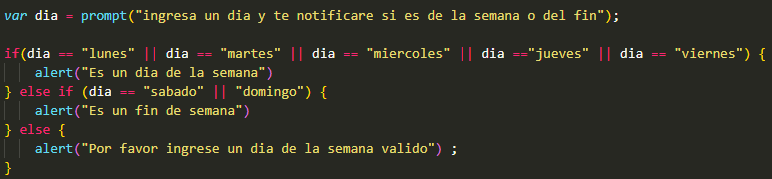
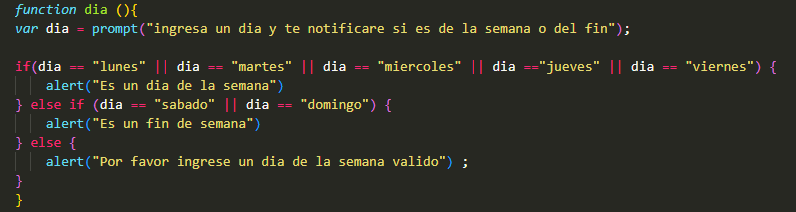
lista

Changed region(s): [[0.0, 0.2514, 0.9948, 0.9777], [0.0, 0.0, 0.8083, 0.1676]]

diff --git a/ejercicio/index.html b/ejercicio/index.html
@@ -23,25 +23,25 @@
         <section class="container">
             <div class="tarjetas">
                 <img src="./recursos/edad.png" alt="Ejercicio 1">
-                <button type="button">Ejercio Nº1</button>
+                <button type="button" onclick="edad()">Ejercio Nº1</button>
             </div>
             <div class="tarjetas">
                 <img src="./recursos/dia de semana.png" alt="Ejercicio 2">
-                <button type="button">Ejercio Nº2</button>
+                <button type="button" onclick="dia()">Ejercio Nº2</button>
             </div class="tarjetas">
             <div class="tarjetas">
-                <img src="./recursos/par-inpar.png" alt="Ejercicio 3">
-                <button type="button">Ejercio Nº3</button>
+                <img src="./recursos/par-impar.png" alt="Ejercicio 3">
+                <button type="button" onclick="parImpar()">Ejercio Nº3</button>
             </div>
             <div class="tarjetas">
                 <img src="./recursos/nombre-edad.png" alt="Ejercicio 4">
-                <button type="button">Ejercio Nº4</button>
+                <button type="button" onclick="nombre()">Ejercio Nº4</button>
             </div>
         </section>
     </main>
-    <footer>
+    <footer id="location">
         Todos los Derechos Reservados de JDK &COPY; Family
     </footer>
 </body>
-<script src="./ejercicio.j"></script>
+<script src="./ejercicio.js"></script>
 </html>

diff --git a/ejercicio/ejercicio.js b/ejercicio/ejercicio.js
@@ -1,3 +1,4 @@
+function edad (){
 var edad = prompt("Por favor escribe tu edad");
 
 if (edad >= 0 && edad <= 5) {
@@ -15,27 +16,30 @@ if (edad >= 0 && edad <= 5) {
 } else {
   alert("La edad no es valida (Eres una imposibilidad en este mundo)");
 }
+}
 
-
+function dia (){
 var dia = prompt("ingresa un dia y te notificare si es de la semana o del fin");
 
 if(dia == "lunes" || dia == "martes" || dia == "miercoles" || dia =="jueves" || dia == "viernes") {
     alert("Es un dia de la semana")
-} else if (dia == "sabado" || "domingo") {
+} else if (dia == "sabado" || dia == "domingo") {
     alert("Es un fin de semana") 
 } else {
     alert("Por favor ingrese un dia de la semana valido") ;
 }
-
-
+}
+function parImpar (){
 var numero = prompt(" Buenas por favor ingrese un numero");
 
 if (numero>0 && (numero % 2 > 0)) {
-    alert(`Hola, el numero ${numero} es inpar`);
+    alert(`Hola, el numero ${numero} es impar`);
 } else {
     alert(`Hola, el numero ${numero} es par`);
 }
+}
 
+function nombre (){
 var nombre = prompt("ingresa tu nombre");
 var edad = prompt(`Muy bien ${nombre} por favor ingresa tu edad`);
 
@@ -44,3 +48,4 @@ if (nombre == "juan" && edad == 20){
     } else {
     alert (`Esto es vergonzoso ${nombre} pero lamentablemente no puedes ingresar`)
     }
+  }   

diff --git a/ejercicio/style.css b/ejercicio/style.css
@@ -9,9 +9,8 @@
     width: 90%;
     height: 200px;
   }
-  footer {
-    display: flex;
-    justify-content: center;
+  #location {
+    display: block;
   }
 }
 * {
@@ -53,4 +52,6 @@ main h1 {
 
 footer {
   font-family: "Caveat", cursive;
+  display: flex;
+  justify-content: center;
 }/*# sourceMappingURL=style.css.map */

diff --git a/ejercicio/_responsive.sass b/ejercicio/_responsive.sass
@@ -9,4 +9,6 @@
                 width: 90%
                 height: 200px
 
-    
+    #location
+        display: block
+        

diff --git a/ejercicio/style.sass b/ejercicio/style.sass
@@ -34,6 +34,5 @@ main
 
 footer
     font-family: 'Caveat', cursive
-    
     display: flex
     justify-content: center
